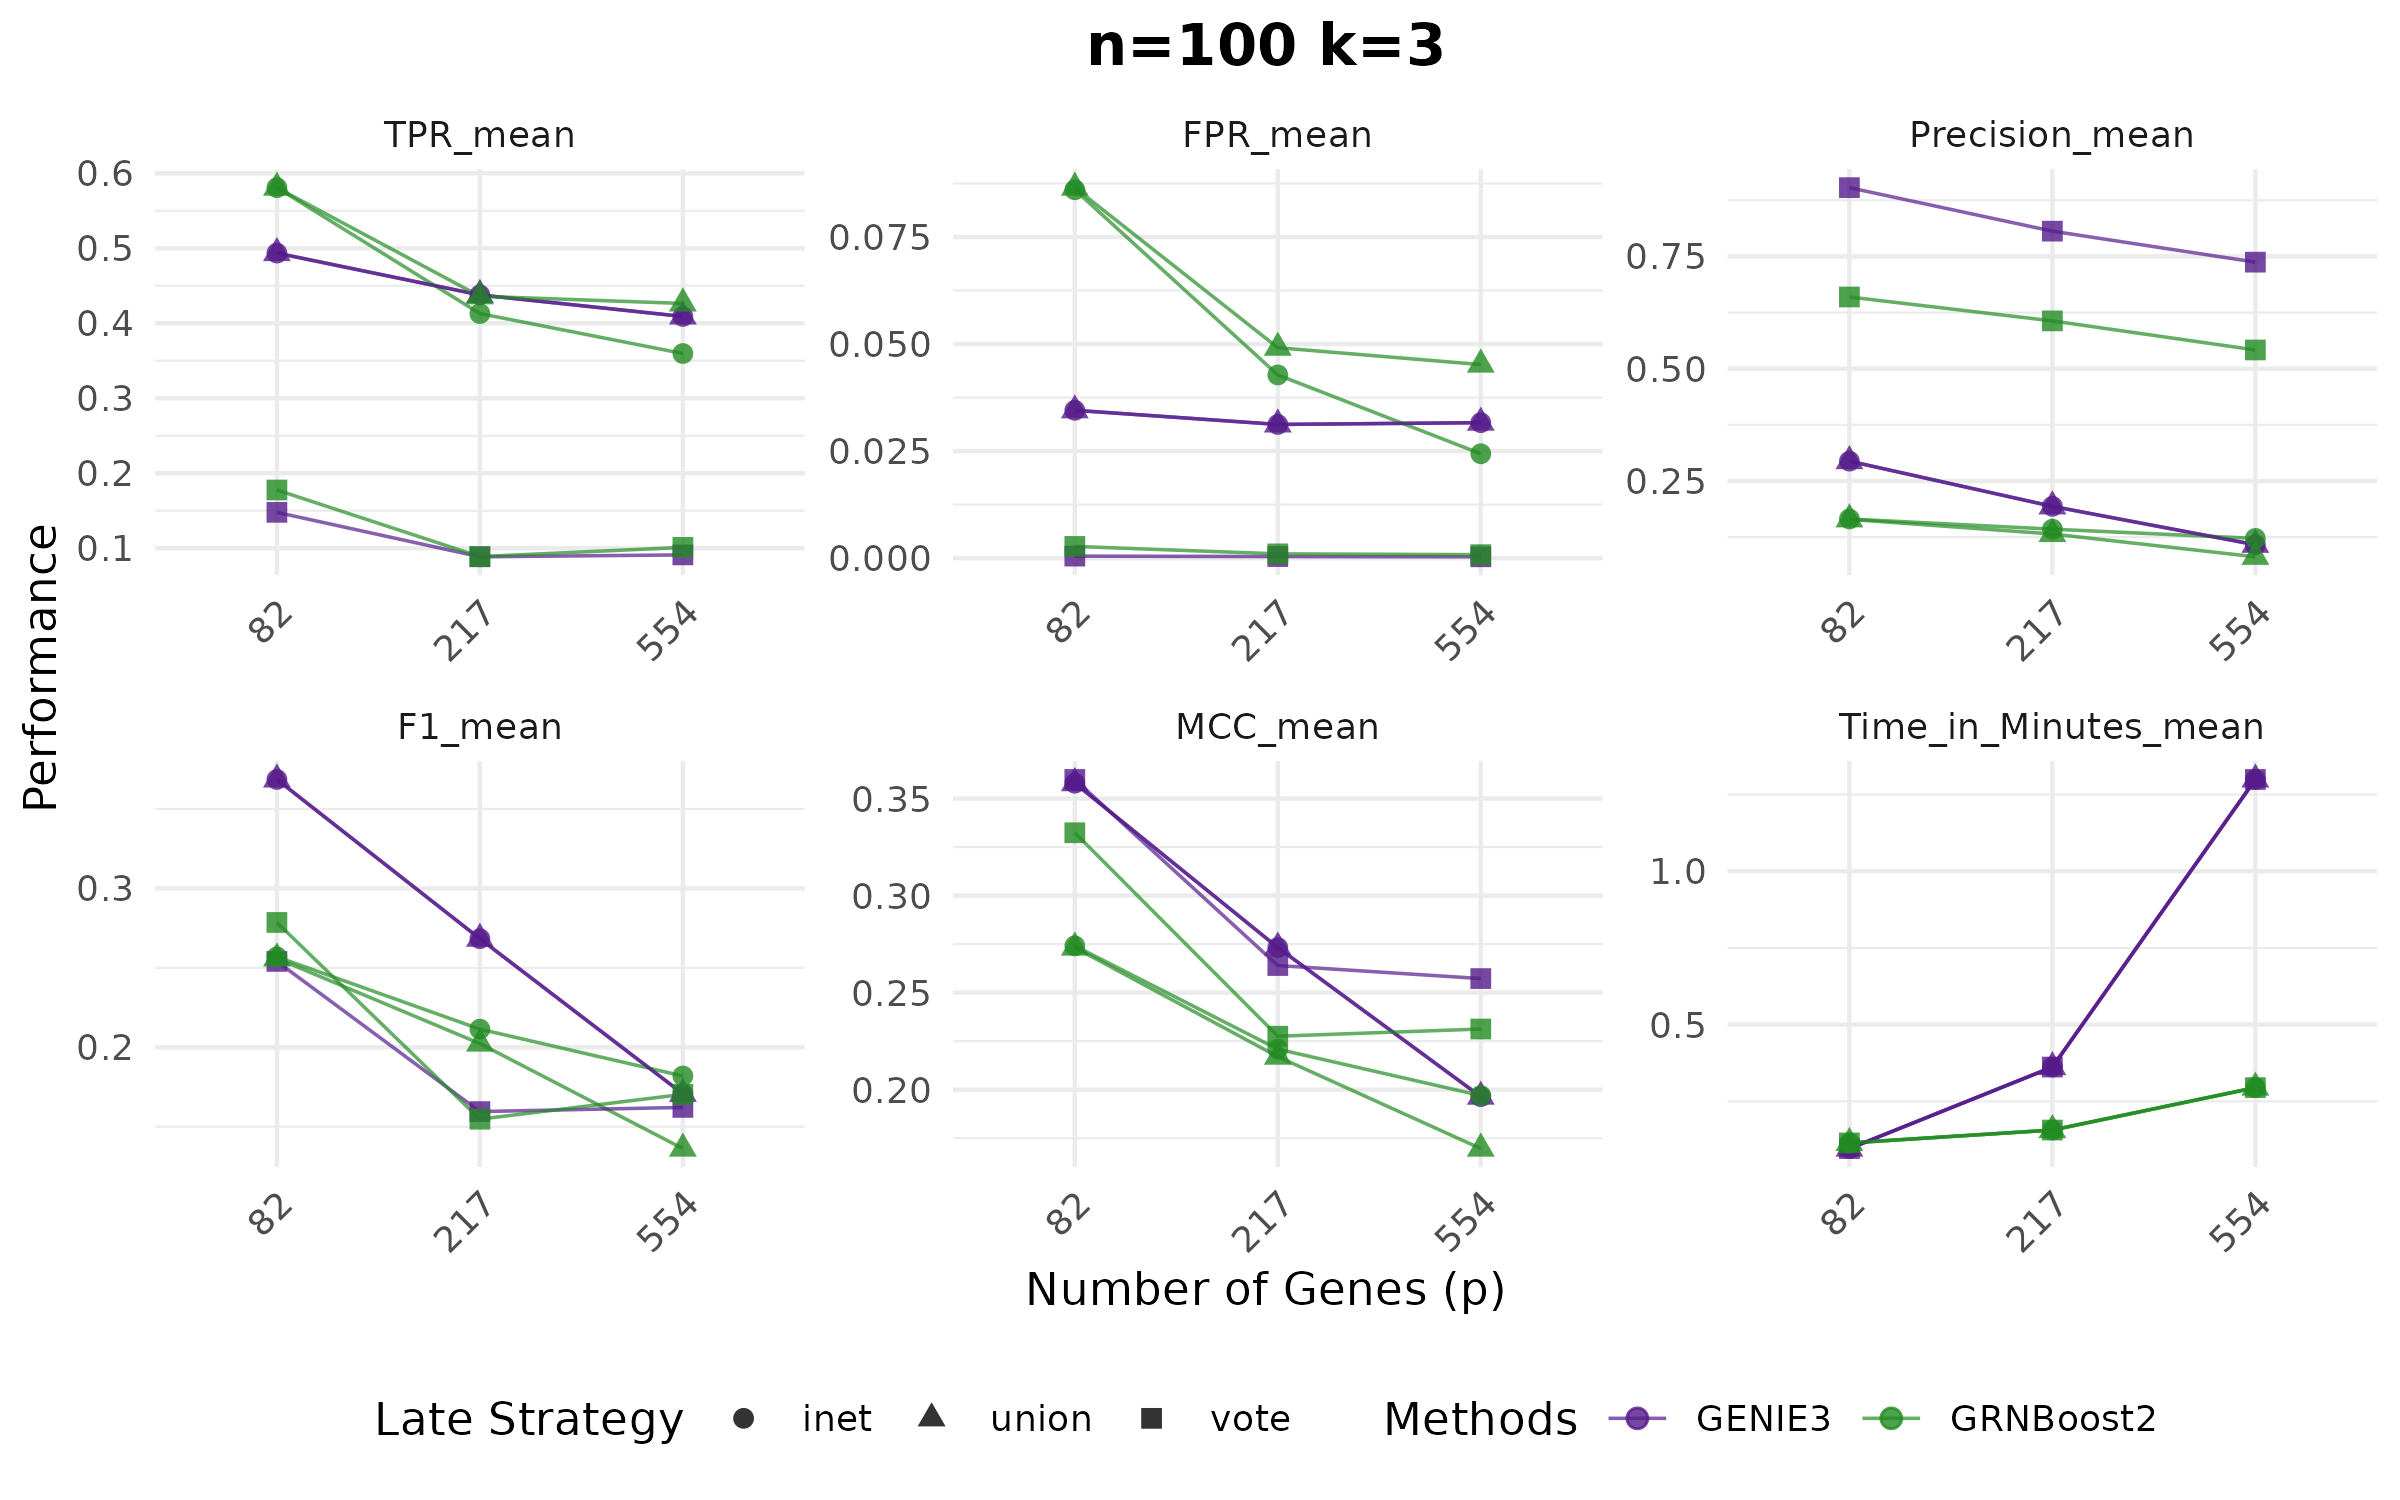
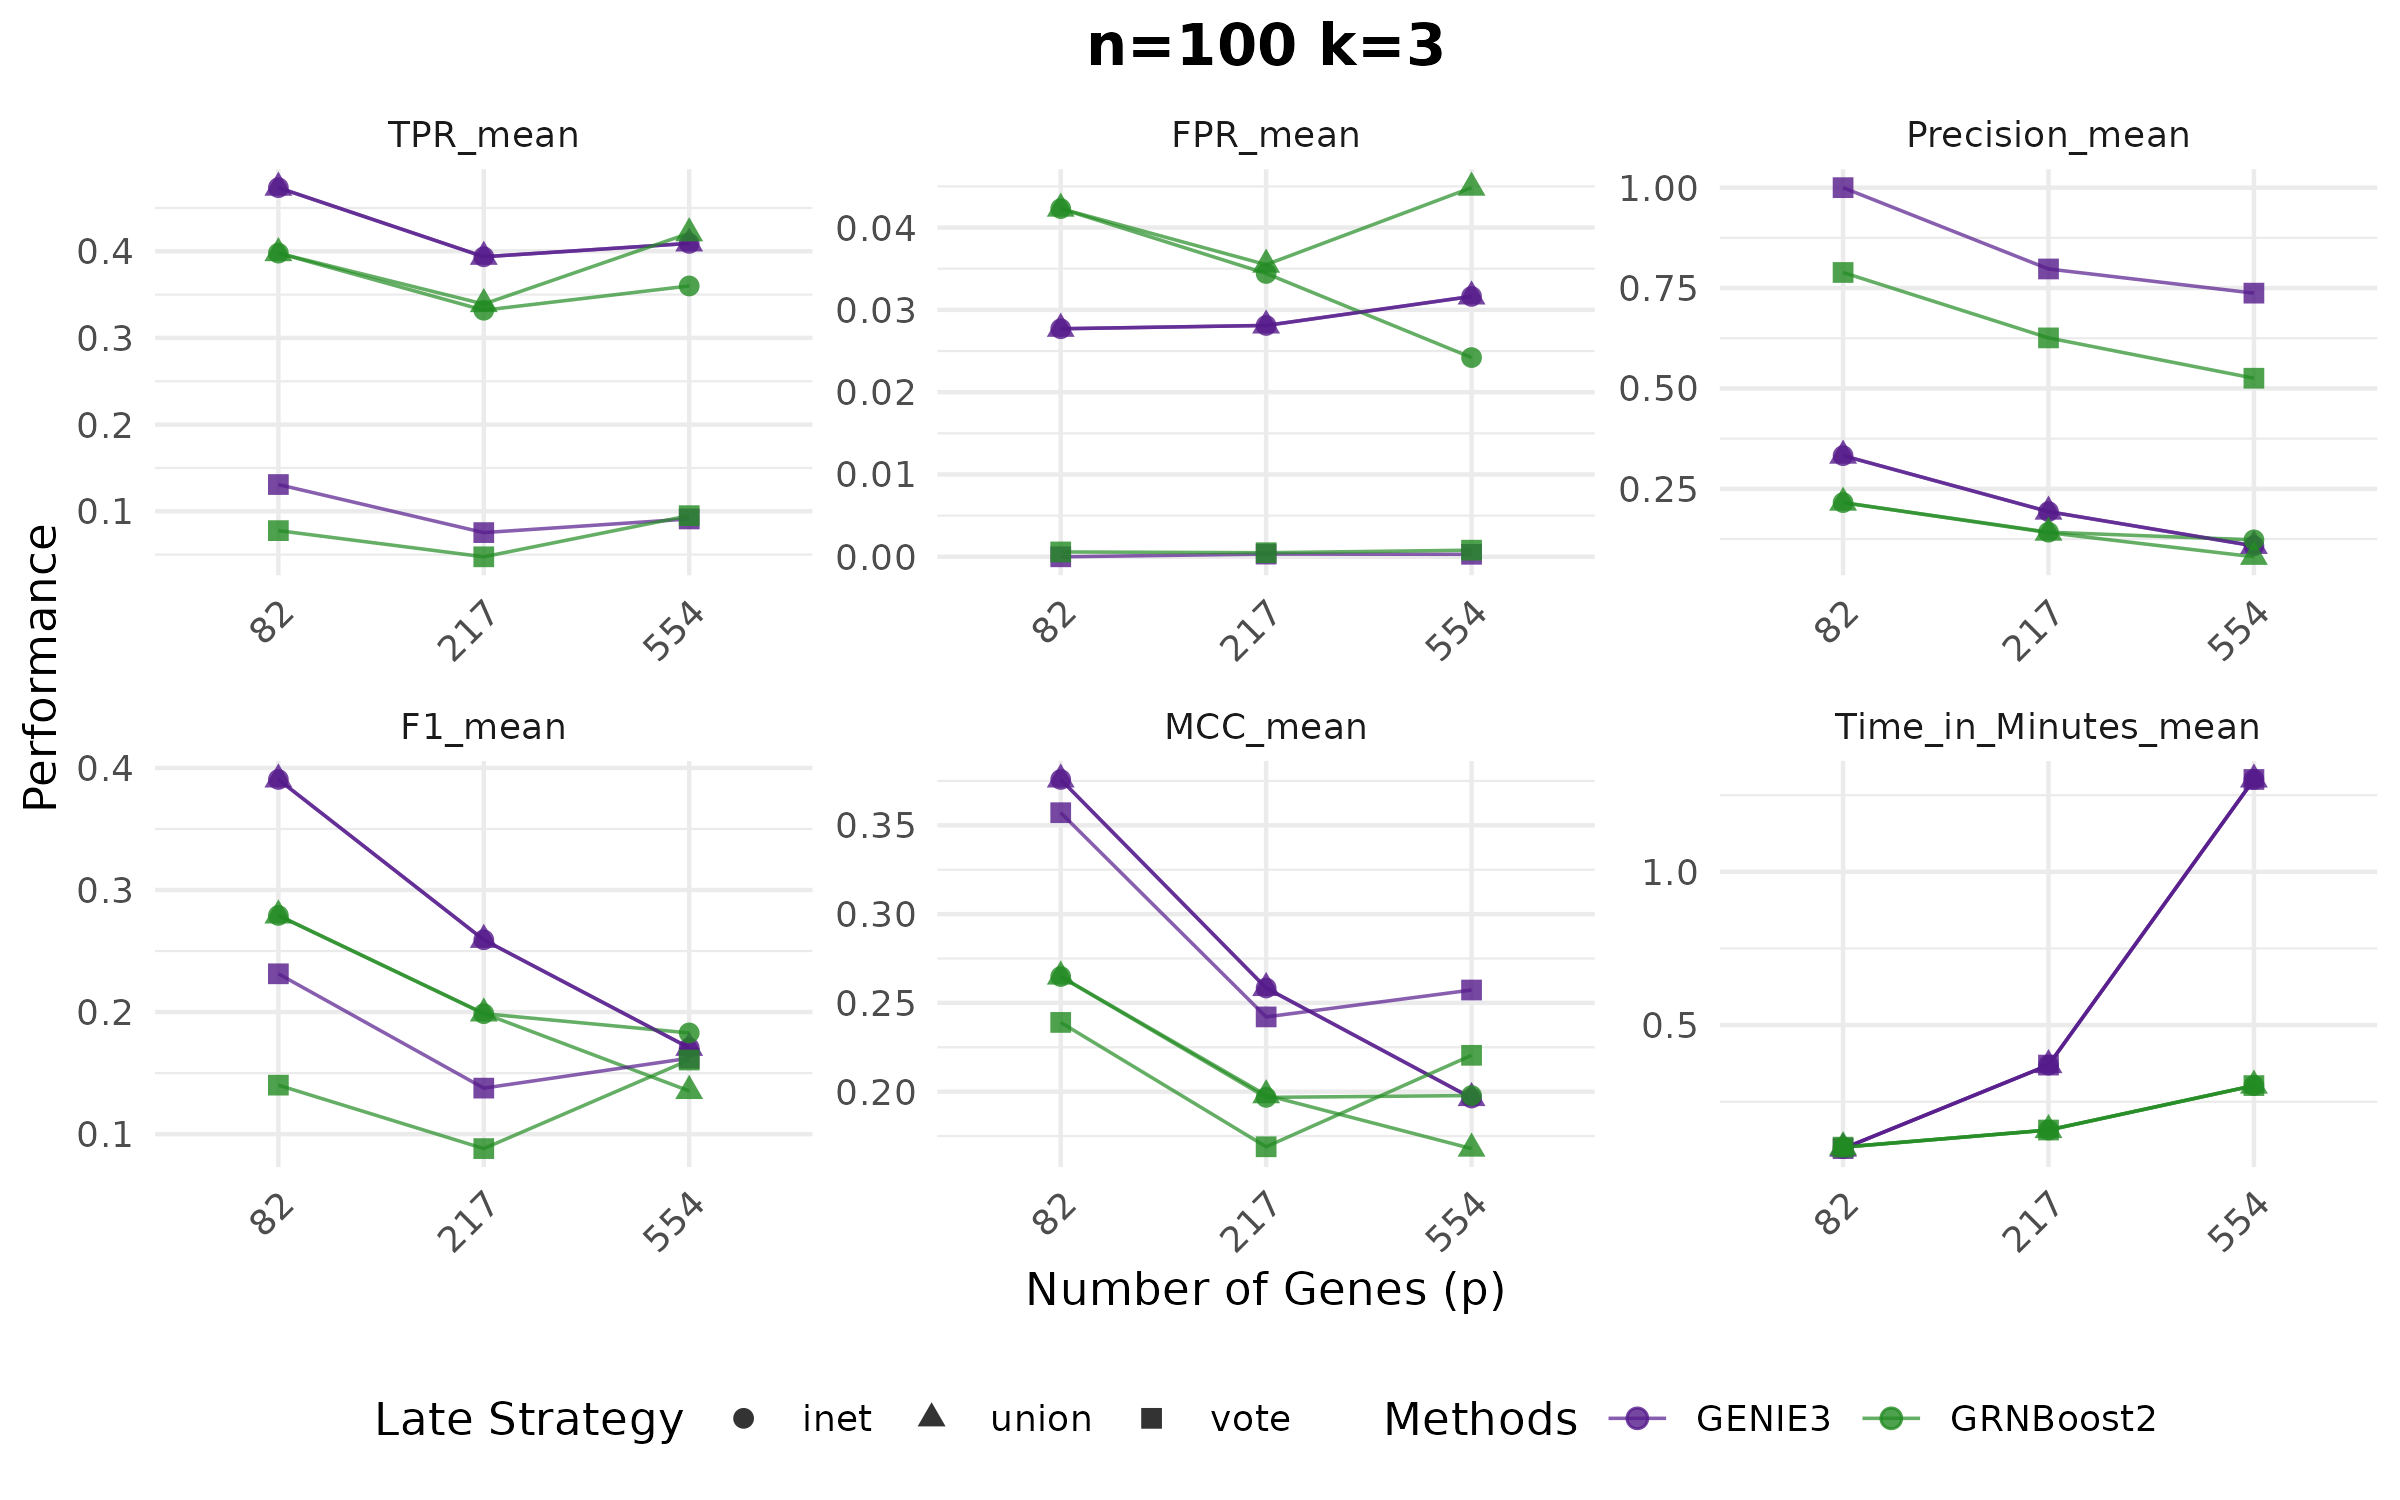
results n100

diff --git a/README.md b/README.md
@@ -1,4 +1,4 @@
-# scGraphVerse <img src="https://img.shields.io/badge/R-Bioconductor-blue.svg" align="right" height="30"/>
+# scGraphVerse
                
 <div align="center">
   <img src="logo.png" alt="Logo" width="200"/>
@@ -10,11 +10,11 @@
 
 ## ✨ Features
 
-- 🔍 Inference of GRNs from count matrices using methods like **GENIE3**, **GRNBoost2**, and **JRF**.
-- 🎯 Thresholding of weighted networks using shuffled matrix null models.
-- 🧠 Consensus network generation via voting, union, or the **INet** framework.
-- 📊 Performance evaluation with ROC curves, classification metrics, and radar plots.
-- 🧩 Network visualization with force-directed layouts and `ggraph`.
+- 🔍 Inference of GRNs from count matrices using methods like **GENIE3**, **GRNBoost2**, **ZILGM**, **PCzimb** and **JRF**.
+- 🎯 Thresholding of weighted networks using shuffled matrix null models `cutoff_adjacency`.
+- 🧠 Consensus network generation via `voting`, `union`, or the `INet` framework.
+- 📊 Performance evaluation with ROC curves, classification metrics and topological measures.
+- 🧩 Network visualization with `ggraph`.
 
 ---
 
@@ -53,7 +53,7 @@ scGraphVerse supports a modular workflow where users can input single or multipl
 Taking common metrics such as TPR, FPR, Precision and others it can evaluate the performance assessment of the methods. scGraphVerse also facilitates downstream analysis such as community detection, pathway analysis and text mining approach to study gene-gene interaction in PubMed. Visualization modules provide publication-ready plots for network structure, ROC curves, and community similarity. All functions are compatible with standard Bioconductor data structures, ensuring interoperability with existing workflows.
 
 ### Results
-We applied scGraphVerse to benchmark network inference methods across simulated and real single-cell datasets. In simulation, we evaluated performance across varying levels of experiments (1 to 5 matrices), repeated runs (n = 10), and level of integration (late, early and joint integration) using GENIE3, GRNBoost2, and JRF. Using simulated scRNA-seq data we revealed that joint integration often improves robustness and performance. Community detection across inferred networks showed consistent modular structures and supported the recovery of known regulatory modules. The package’s consensus functions enhanced the stability of inferred interactions across multiple runs and methods. Visualization tools allowed intuitive inspection of network topology and evaluation metrics, aiding interpretation and reproducibility. scGraphVerse provides a flexible, comprehensive toolkit for network-centric analysis of scRNA-seq data and enables scalable benchmarking and comparative studies across algorithms and datasets.
+We applied scGraphVerse to benchmark network inference methods across simulated and real single-cell datasets. In simulation, we evaluated performance across varying numbers of experiments (1 to 5 matrices), repeated runs (n = 10), and integration strategies (late, early, and joint) using GENIE3, GRNBoost2, and JRF. Using synthetic scRNA-seq data (n = 100 cells, k = 3 matrices), we observed that early integration with GENIE3 achieved the highest true positive rate (TPR ≈ 0.43) and F1-score (F1 ≈ 0.50) at smaller gene sets (p = 82), while late integration with GRNBoost2 maintained a low false positive rate (FPR ≈ 0.000–0.001) and high precision (Precision ≈ 0.92). However, JRF consistently balanced these trade-offs, achieving F1-scores around 0.30–0.33, MCC values near 0.30–0.40, and precision up to 0.90, with nearly zero FPR across all gene sizes. While JRF’s runtime increased with gene count (0.5 to 10 minutes), it provided strong accuracy and generalization, particularly for moderate-sized gene sets.
 
 ### References
 
